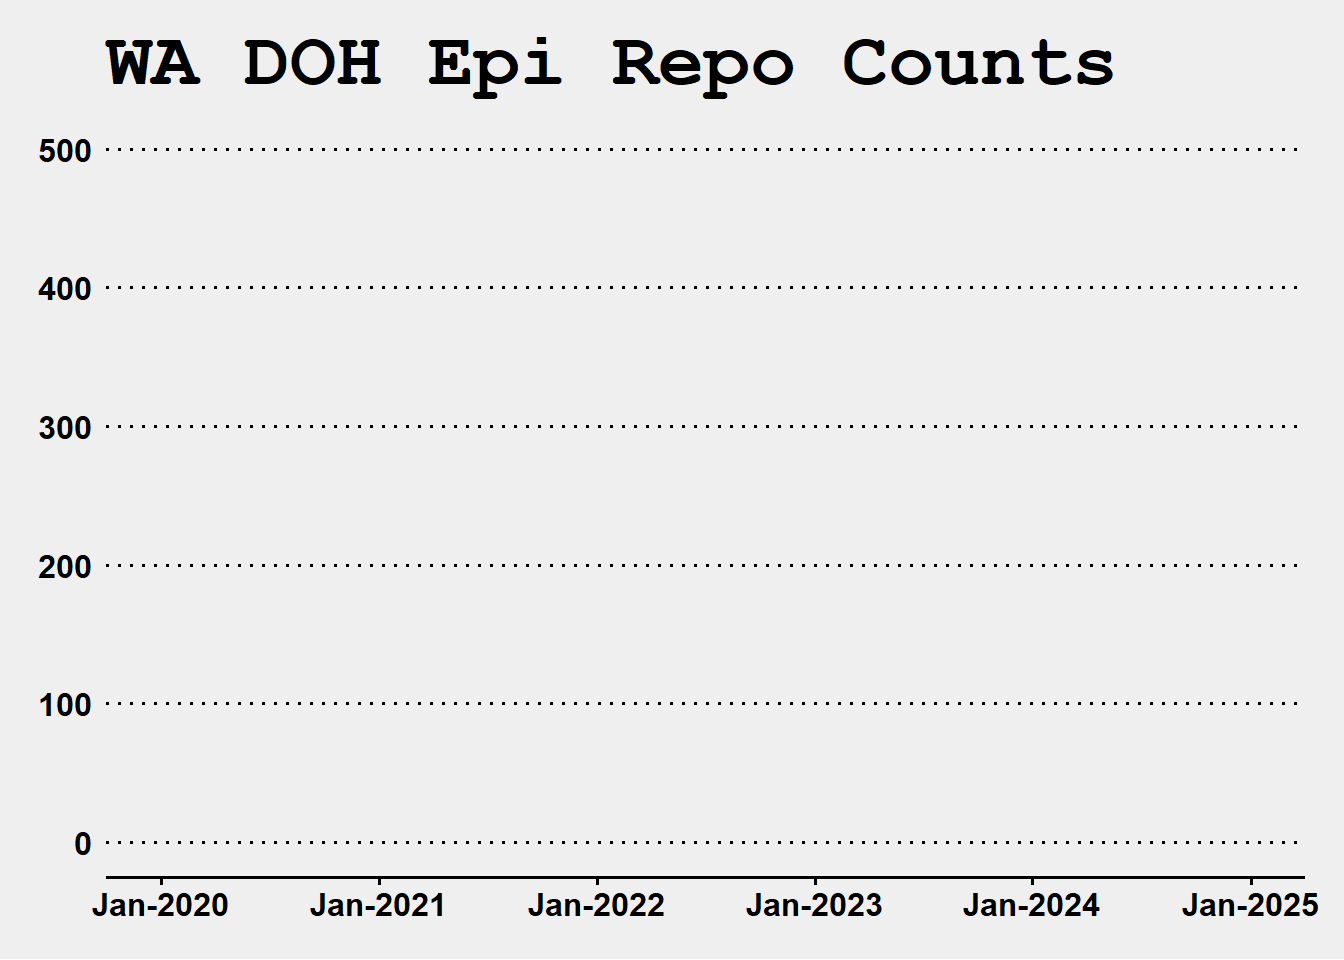
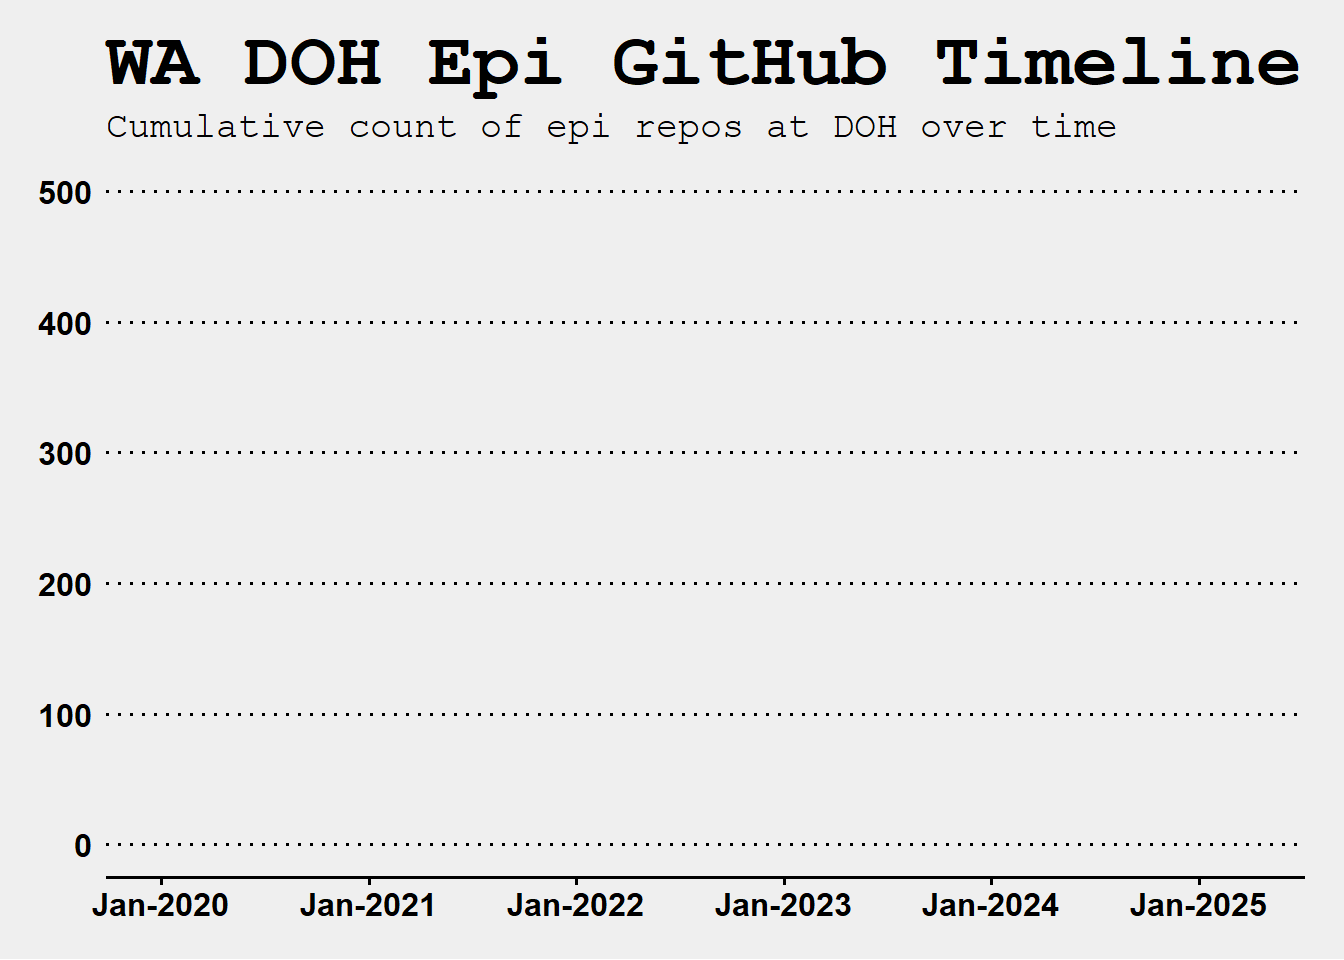
Built site for gh-pages

diff --git a/index.html b/index.html
@@ -207,16 +207,26 @@ pre > code.sourceCode > span > a:first-child::before { text-decoration: underlin
 <span id="cb2-25"><a href="#cb2-25" aria-hidden="true" tabindex="-1"></a>                  <span class="fu">geom_line</span>(<span class="at">linewidth=</span><span class="dv">1</span>) <span class="sc">+</span></span>
 <span id="cb2-26"><a href="#cb2-26" aria-hidden="true" tabindex="-1"></a>                  <span class="fu">scale_x_date</span>(<span class="at">date_breaks =</span> <span class="st">"1 year"</span>, </span>
 <span id="cb2-27"><a href="#cb2-27" aria-hidden="true" tabindex="-1"></a>                  <span class="at">labels=</span><span class="fu">date_format</span>(<span class="st">"%b-%Y"</span>),</span>
-<span id="cb2-28"><a href="#cb2-28" aria-hidden="true" tabindex="-1"></a>                  <span class="at">limits =</span> <span class="fu">as.Date</span>(<span class="fu">c</span>(<span class="st">'2020-01-01'</span>,<span class="st">'2025-01-01'</span>))) <span class="sc">+</span></span>
+<span id="cb2-28"><a href="#cb2-28" aria-hidden="true" tabindex="-1"></a>                  <span class="at">limits =</span> <span class="fu">as.Date</span>(<span class="fu">c</span>(<span class="st">'2020-01-01'</span>,<span class="st">'2025-04-01'</span>))) <span class="sc">+</span></span>
 <span id="cb2-29"><a href="#cb2-29" aria-hidden="true" tabindex="-1"></a>                  <span class="fu">ylim</span>(<span class="dv">0</span>,<span class="dv">500</span>) <span class="sc">+</span></span>
-<span id="cb2-30"><a href="#cb2-30" aria-hidden="true" tabindex="-1"></a>                  <span class="fu">theme_minimal</span>(<span class="at">base_size =</span> <span class="dv">20</span>) <span class="sc">+</span></span>
+<span id="cb2-30"><a href="#cb2-30" aria-hidden="true" tabindex="-1"></a>                  <span class="co"># theme_minimal(base_size = 30) +</span></span>
 <span id="cb2-31"><a href="#cb2-31" aria-hidden="true" tabindex="-1"></a>                  <span class="fu">guides</span>(<span class="at">colour =</span> <span class="st">"none"</span>, <span class="at">shape =</span> <span class="st">"none"</span>) <span class="sc">+</span></span>
-<span id="cb2-32"><a href="#cb2-32" aria-hidden="true" tabindex="-1"></a>                  <span class="fu">labs</span>(</span>
-<span id="cb2-33"><a href="#cb2-33" aria-hidden="true" tabindex="-1"></a>                        <span class="at">x =</span> <span class="st">"Date"</span>,</span>
-<span id="cb2-34"><a href="#cb2-34" aria-hidden="true" tabindex="-1"></a>                        <span class="at">y =</span> <span class="st">"Cumulative Count"</span>) <span class="sc">+</span></span>
-<span id="cb2-35"><a href="#cb2-35" aria-hidden="true" tabindex="-1"></a>                  <span class="fu">scale_colour_wsj</span>(<span class="st">"colors6"</span>, <span class="st">""</span>) <span class="sc">+</span> <span class="fu">theme_wsj</span>(<span class="at">color =</span> <span class="st">"gray"</span>)<span class="sc">+</span></span>
-<span id="cb2-36"><a href="#cb2-36" aria-hidden="true" tabindex="-1"></a>                  <span class="fu">ggtitle</span>(<span class="st">"WA DOH Epi Repo Counts"</span>) </span>
-<span id="cb2-37"><a href="#cb2-37" aria-hidden="true" tabindex="-1"></a>}</span></code><button title="Copy to Clipboard" class="code-copy-button"><i class="bi"></i></button></pre></div>
+<span id="cb2-32"><a href="#cb2-32" aria-hidden="true" tabindex="-1"></a>                  </span>
+<span id="cb2-33"><a href="#cb2-33" aria-hidden="true" tabindex="-1"></a>                  <span class="fu">scale_colour_wsj</span>(<span class="st">"colors6"</span>, <span class="st">""</span>) <span class="sc">+</span> </span>
+<span id="cb2-34"><a href="#cb2-34" aria-hidden="true" tabindex="-1"></a>                  <span class="fu">theme_wsj</span>(<span class="at">color =</span> <span class="st">"gray"</span>)<span class="sc">+</span></span>
+<span id="cb2-35"><a href="#cb2-35" aria-hidden="true" tabindex="-1"></a>                  <span class="co"># theme_clean() +</span></span>
+<span id="cb2-36"><a href="#cb2-36" aria-hidden="true" tabindex="-1"></a>                  <span class="fu">theme</span>(</span>
+<span id="cb2-37"><a href="#cb2-37" aria-hidden="true" tabindex="-1"></a>                        <span class="at">panel.grid.major.x =</span> <span class="fu">element_blank</span>(),</span>
+<span id="cb2-38"><a href="#cb2-38" aria-hidden="true" tabindex="-1"></a>                        <span class="at">plot.subtitle =</span> <span class="fu">element_text</span>(<span class="at">size=</span><span class="dv">14</span>)</span>
+<span id="cb2-39"><a href="#cb2-39" aria-hidden="true" tabindex="-1"></a>                  ) <span class="sc">+</span></span>
+<span id="cb2-40"><a href="#cb2-40" aria-hidden="true" tabindex="-1"></a>                  <span class="co"># ggtitle("WA DOH Epi GitHub Repos")+</span></span>
+<span id="cb2-41"><a href="#cb2-41" aria-hidden="true" tabindex="-1"></a>                  <span class="fu">labs</span>(</span>
+<span id="cb2-42"><a href="#cb2-42" aria-hidden="true" tabindex="-1"></a>                        <span class="at">y =</span> <span class="st">"Cumulative Count"</span>,</span>
+<span id="cb2-43"><a href="#cb2-43" aria-hidden="true" tabindex="-1"></a>                        <span class="at">x =</span> <span class="st">""</span>,</span>
+<span id="cb2-44"><a href="#cb2-44" aria-hidden="true" tabindex="-1"></a>                        <span class="at">title =</span> <span class="st">"WA DOH Epi GitHub Timeline"</span>,</span>
+<span id="cb2-45"><a href="#cb2-45" aria-hidden="true" tabindex="-1"></a>                        <span class="at">subtitle =</span> <span class="st">"Cumulative count of epi repos at DOH over time"</span></span>
+<span id="cb2-46"><a href="#cb2-46" aria-hidden="true" tabindex="-1"></a>                  ) </span>
+<span id="cb2-47"><a href="#cb2-47" aria-hidden="true" tabindex="-1"></a>}</span></code><button title="Copy to Clipboard" class="code-copy-button"><i class="bi"></i></button></pre></div>
 </details>
 </div>
 <p><br></p>
@@ -460,12 +470,12 @@ pre > code.sourceCode > span > a:first-child::before { text-decoration: underlin
 <p>Here’s an example parameterized and automated report.</p>
 </div>
 </div>
-<div class="trigger new-trigger" data-pan-to="-40%,60%" data-scale-by="3.1" data-focus-on="cr-report">
+<div class="trigger new-trigger" data-pan-to="-40%,60%" data-focus-on="cr-report" data-scale-by="3.1">
 <div class="narrative">
 <p>We can bake our code into the report and produce plots and statistics so that we don’t need to copy and paste screen shots of the plots or manually update numbers everytime we generate the report.</p>
 </div>
 </div>
-<div class="trigger new-trigger" data-pan-to="60%,-90%" data-scale-by="3.1" data-focus-on="cr-report">
+<div class="trigger new-trigger" data-pan-to="60%,-90%" data-focus-on="cr-report" data-scale-by="3.1">
 <div class="narrative">
 <p>And likewise with text. We don’t need to ‘hardcode’ any text into the document. Notice the statistics written in the text - all of them are ‘written’ using code and can be automatically updated whenever there are changes.</p>
 </div>
